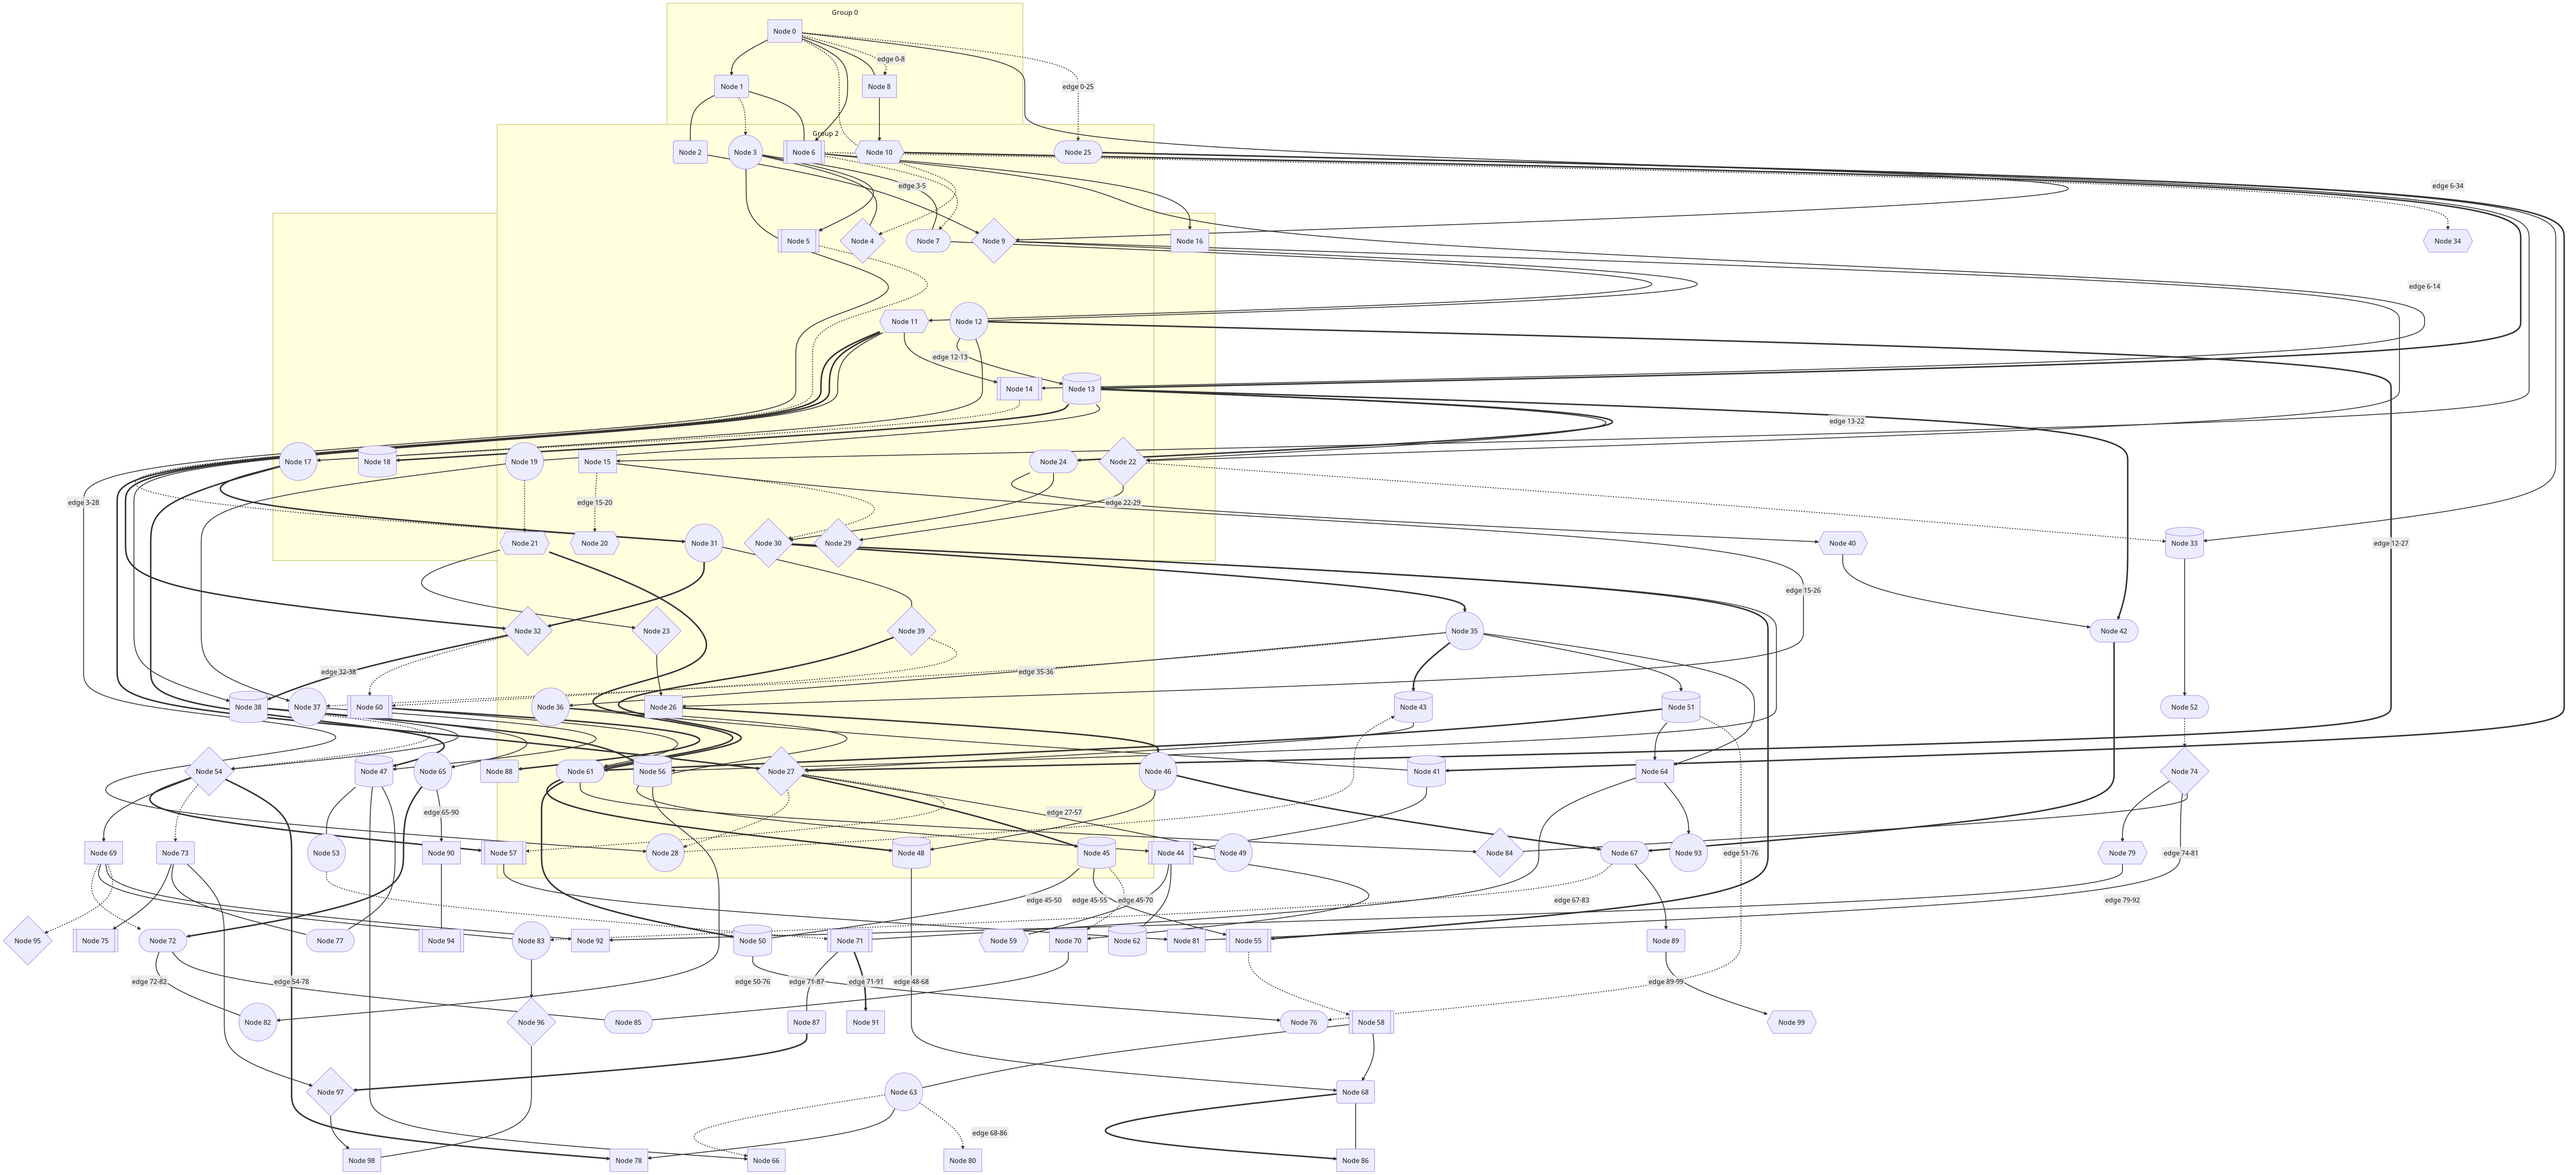
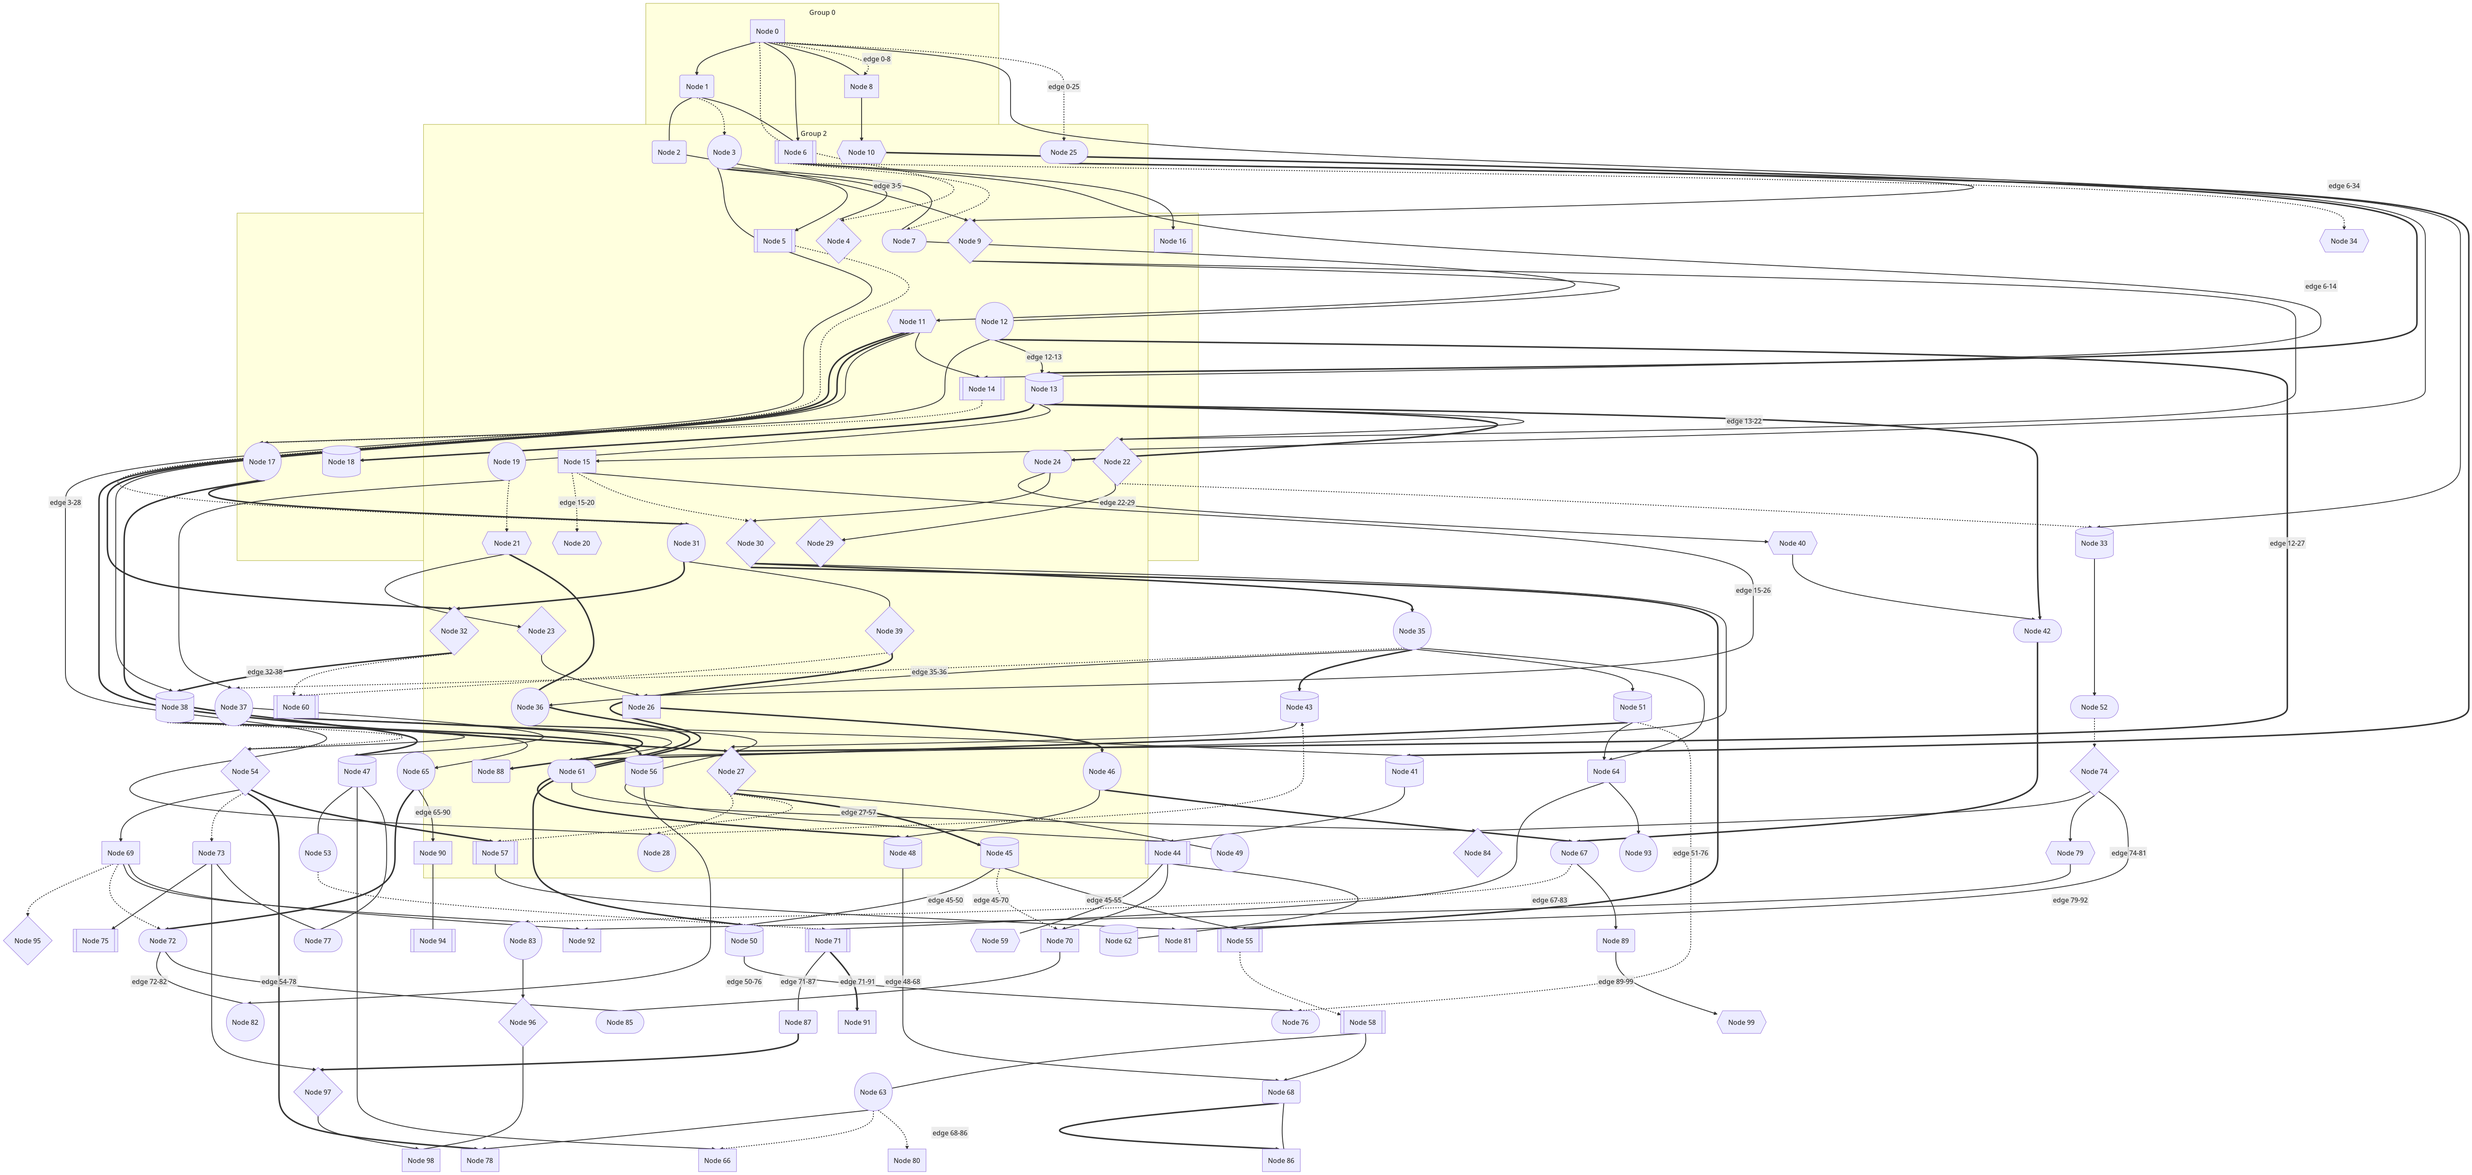
README v2 features, benchmark results, regenerated samples

diff --git a/README.md b/README.md
@@ -27,3 +27,16 @@ API (`include/cmermaid.h`): `cmm_render_svg(n, src, opts, &buf, &err)`, `cmm_buf
 | output | `src/flow_svg.c` | d3 `curveBasis` paths, boundary clipping per shape, markers, styles; fixed-point number formatting (no printf) |
 | sequence | `src/seq.c` | participants/actors, all arrows, activations, notes, blocks, autonumber |
 | text metrics | `src/text.c` | embedded Helvetica-compatible advance table, CJK/emoji wide, 8-byte ASCII fast path |
+
+## Flowchart features (v2)
+- `direction` inside subgraphs: clusters with their own direction are laid out recursively and placed as
+  fixed-size proxy nodes; edges to a subgraph id attach to the cluster box; cluster titles are moved
+  sideways to avoid edges crossing the title band.
+- Crossing reduction: barycenter sweeps + keep-best + budgeted transpose polish (dirty-layer skipping).
+- Port ordering for fan-in/fan-out and parallel edges; nested multiple self-loops.
+- `mmdc-c --avoid` (`CMM_F_ROUTE_AVOID`): detours polyline segments around nodes they pass through.
+- Themes: `default`, `dark`, `forest`, `neutral` via `%%{init: {"theme": ...}}%%`, frontmatter, or `-t`.
+- Markdown strings (`"`**bold** *italic*`"`) with auto-wrap at 200px, `fa:fa-name` icons
+  (Font Awesome glyphs; needs the font installed to render), edge ids `A e1@--> B`, `e1@{ animate: true }`.
+- Golden tests in `tests/golden` (`UPDATE_GOLDEN=1 bash tests/run_tests.sh` to refresh).
+- Benchmarks: `bench/results_v2.txt`.
